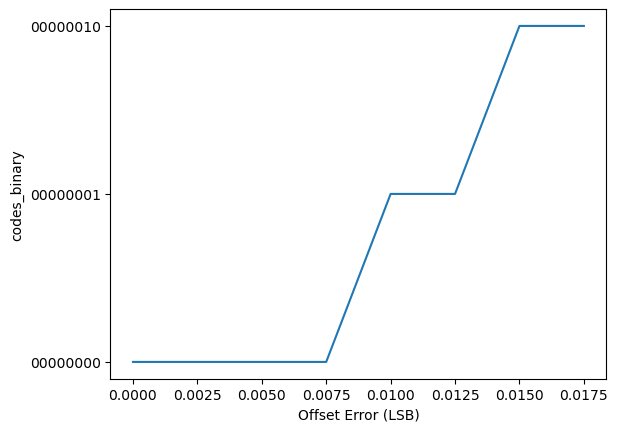
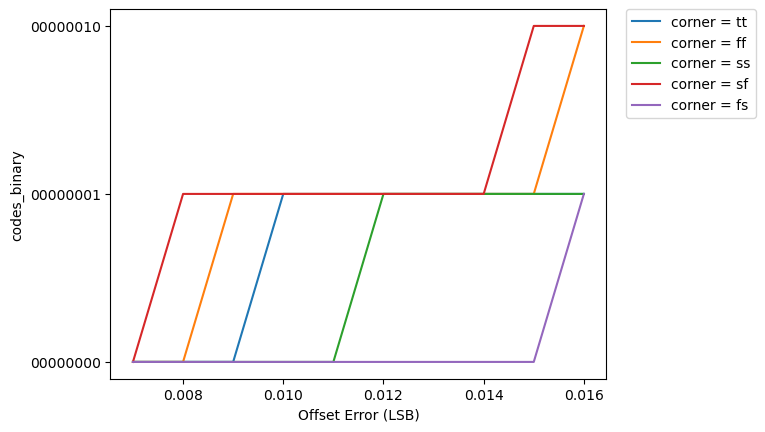
edited testbench

diff --git a/cace/scripts/offset_error.py b/cace/scripts/offset_error.py
@@ -12,7 +12,7 @@ def postprocess(results: dict[str, list], conditions: dict[str, Any]) -> dict[st
     """
 
     nbits = 8
-    Tconv = 34e-6               # 34 microseconds per conversion
+    Tconv = 8.5e-6               # 34 microseconds per conversion
 
     # --- Supply voltage and threshold ---
     VDD = float(conditions.get("VVDD", 1.8))
@@ -63,6 +63,10 @@ def postprocess(results: dict[str, list], conditions: dict[str, Any]) -> dict[st
     Vfsr = VDD
     LSB = Vfsr / (2**nbits)
     V_ideal0 = 0.5 * LSB                # ideal 0 -> 1 transition
+
+    # --- Debug prints ---
+    print(f"[DEBUG] Vmeas (measured 0->1 transition): {V_meas0}")
+    print(f"[DEBUG] Videal (ideal 0->1 transition): {V_ideal0}")
 
     # --- Step 4: offset error in LSB ---
     offset_zero_lsb = (V_meas0 - V_ideal0) / LSB if not np.isnan(V_meas0) else np.nan

diff --git a/docs/SAR-ADC-using-Sky130-PDK_schematic.md b/docs/SAR-ADC-using-Sky130-PDK_schematic.md
@@ -5,11 +5,11 @@
 
 |      Parameter       |         Tool         |     Result      | Min Limit  |  Min Value   | Typ Target |  Typ Value   | Max Limit  |  Max Value   |  Status  |
 | :------------------- | :------------------- | :-------------- | ---------: | -----------: | ---------: | -----------: | ---------: | -----------: | :------: |
-| Average Power        | ngspice              | avg_power            |             any |   0.988 mW |          any |   1.003 mW |          any |   1.059 mW |   Pass ✅    |
+| Offset Error         | ngspice              | offset_error         |             any |  0.638 LSB |          any |  0.922 LSB |          any |  1.776 LSB |   Pass ✅    |
 
 
 ## Plots
 
-## power
+## offset_error
 
-![power](./SAR-ADC-using-Sky130-PDK/schematic/power.png)
+![offset_error](./SAR-ADC-using-Sky130-PDK/schematic/offset_error.png)

diff --git a/docs/SAR-ADC-using-Sky130-PDK.md b/docs/SAR-ADC-using-Sky130-PDK.md
@@ -112,8 +112,3 @@
 ## Schematic
 
 ![Schematic of SAR-ADC-using-Sky130-PDK](SAR-ADC-using-Sky130-PDK_schematic.svg)
-
-## Layout
-
-![Layout of SAR-ADC-using-Sky130-PDK with white background](SAR-ADC-using-Sky130-PDK_w.png)
-![Layout of SAR-ADC-using-Sky130-PDK with black background](SAR-ADC-using-Sky130-PDK_b.png)
